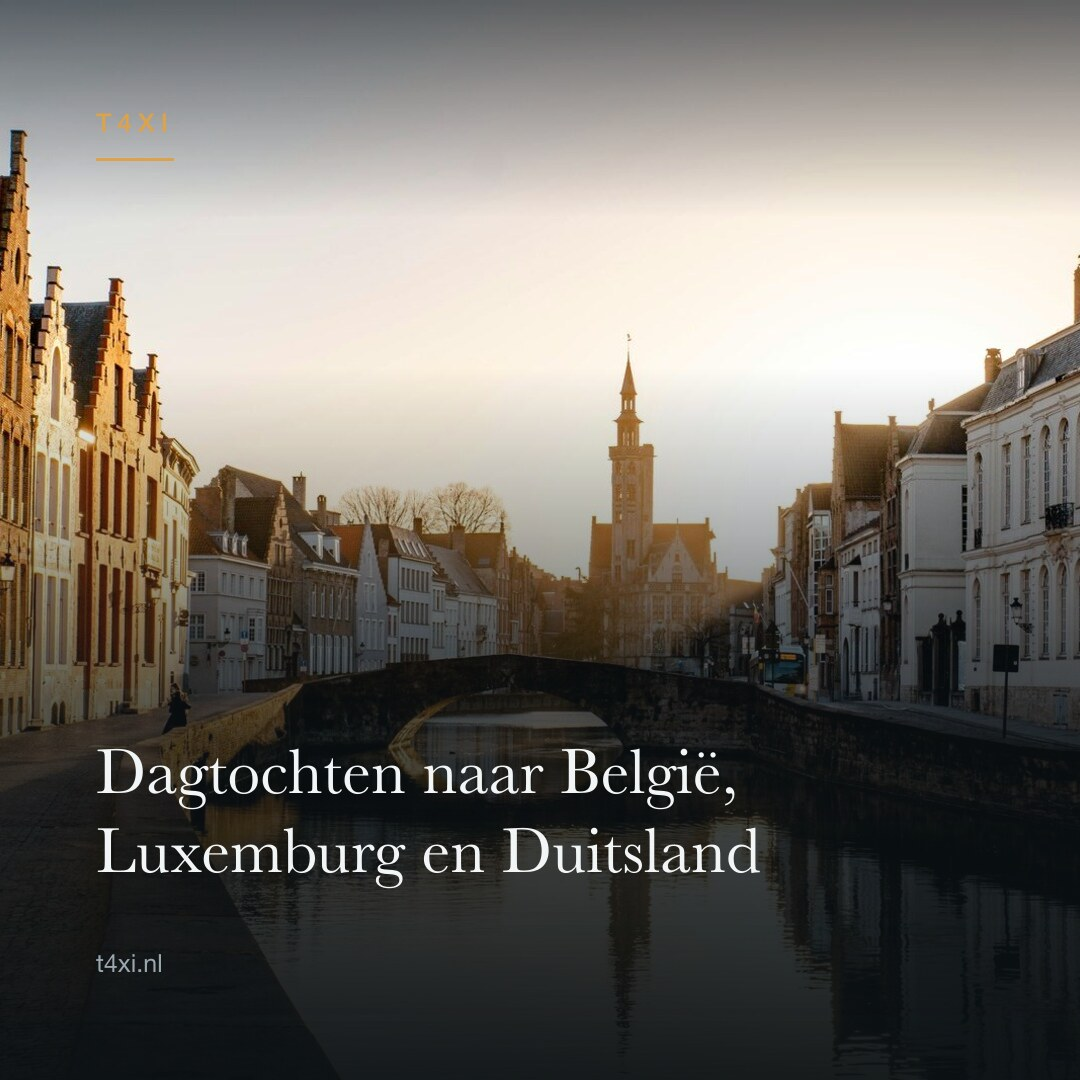
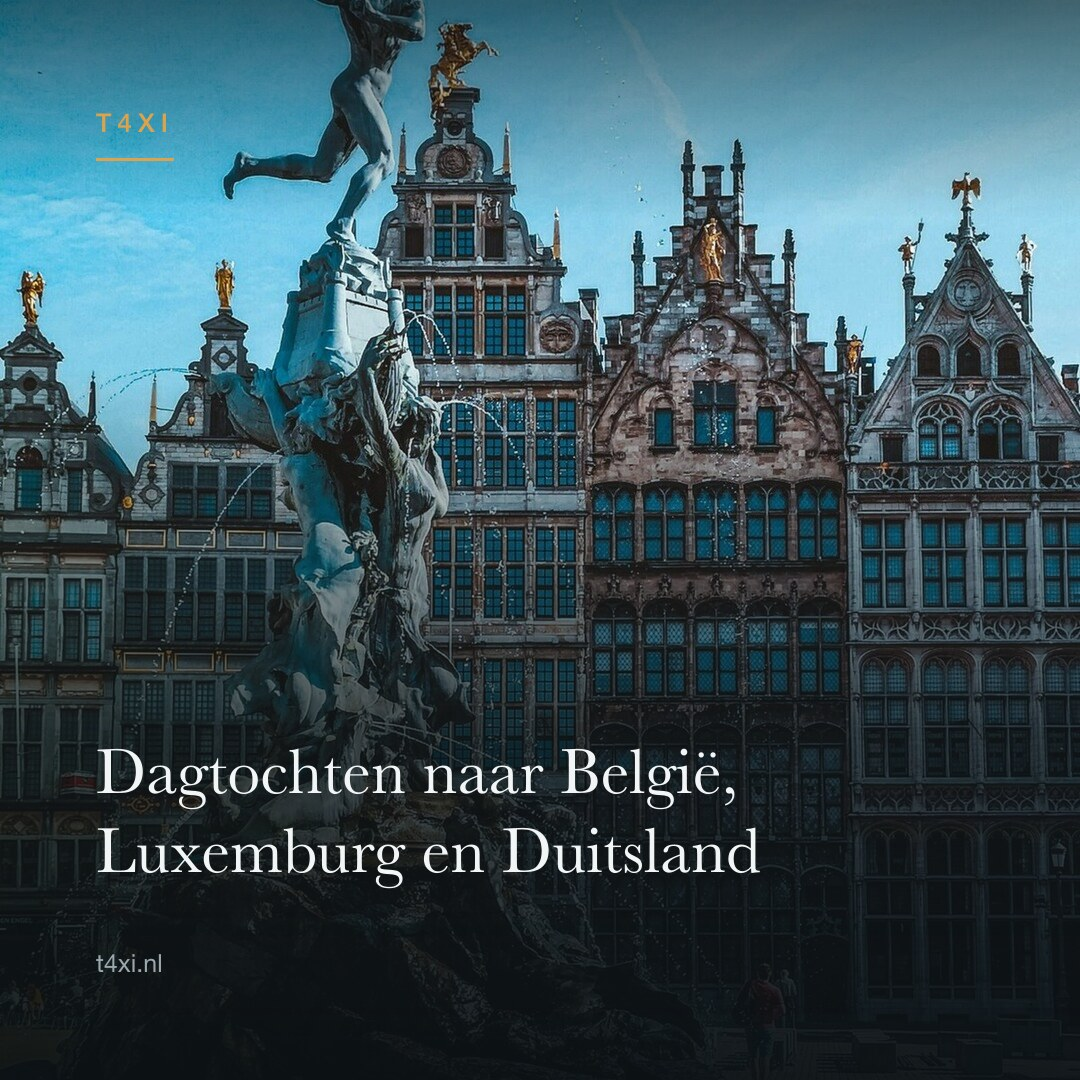
feat(social): beeldgeneratie als herhaalbare pijplijn (#31)
De socialbeelden werden gebouwd door een script buiten de repo met negen
hardgecodeerde bronpaden. Daardoor kon er geen foto bij zonder codewijziging.

- assets/social/  bronfoto's; bestandsnaam bepaalt de pijler(s),
                  bijvoorbeeld schiphol+bagage--terminal.jpg
- scripts/social/build-images.py  scant die map en bouwt public/social/
- scripts/social/posts.csv        de 59 posts (datum, kanaal, pijler, kop)
- scripts/social/manifest.csv     welk beeld bij welke post hoort

Een foto bijplaatsen is nu: bestand in assets/social/ zetten en het script
opnieuw draaien. MAX_HERHALING begrenst hoe vaak dezelfde foto terugkomt;
is elke kandidaat op, dan wint een tekstkaart.

diff --git a/scripts/social/build-images.py b/scripts/social/build-images.py
@@ -1,0 +1,221 @@
+#!/usr/bin/env python3
+# -*- coding: utf-8 -*-
+"""
+Bouwt de socialbeelden in public/social/ — één merksysteem over alle posts.
+
+    python3 scripts/social/build-images.py
+
+BRONFOTO'S — assets/social/
+    Bestandsnaam bepaalt waar een foto terechtkomt:
+
+        <pijler>--<omschrijving>.jpg
+
+    De pijler vóór het dubbele streepje moet overeenkomen met de kolom
+    `pijler` in posts.csv, kleine letters en zonder spaties:
+
+        schiphol--avond.jpg              -> posts met pijler "Schiphol"
+        vasteprijs--dashboard.jpg        -> pijler "Vaste prijs"
+        schiphol+bagage--terminal.jpg    -> beide pijlers
+        algemeen--nachtstraat.jpg        -> vulfoto, bruikbaar bij elke pijler
+
+    Foto's bijplaatsen = bestand in assets/social/ zetten en dit script
+    opnieuw draaien. Meer foto's per pijler betekent minder tekstkaarten.
+    Vierkant werkt het beste; de rest wordt centraal bijgesneden.
+
+UITVOER — public/social/, één bestand per post. Posts zonder passende foto
+krijgen een tekstkaart in dezelfde huisstijl.
+"""
+import csv
+import html
+import os
+import subprocess
+import sys
+import textwrap
+
+ROOT = os.path.dirname(os.path.dirname(os.path.dirname(os.path.abspath(__file__))))
+BRON = os.path.join(ROOT, "assets", "social")
+UIT = os.path.join(ROOT, "public", "social")
+DATA = os.path.join(ROOT, "scripts", "social", "posts.csv")
+TMP = os.path.join(ROOT, ".next", "cache", "social-build")
+
+GROND, INKT, AMBER, ZACHT = "#0F1519", "#F2F5F6", "#DCA24C", "#9AA8B0"
+MARGE, BASIS, MAAT = 96, 872, 1080
+
+# Curatie: deze posts krijgen bewust een specifieke foto, ongeacht de pijler.
+# Sleutel is de kolom `idx` in posts.csv.
+CURATIE = {
+    2:  "vasteprijs+fairfare--dashboard",                       # leeg scherm bij "geen taxameter"
+    8:  "schiphol+luchthavens+bagage+chauffeur--transfer-terminal",  # chauffeur ontvangt iemand
+    14: "schiphol+luchthavens+bagage+chauffeur--transfer-terminal",  # koffer bij bagagepost
+}
+
+# Hoe vaak dezelfde foto in de hele reeks mag terugkeren. Is elke kandidaat
+# op, dan wint een tekstkaart: liever variatie dan een feed vol dezelfde auto.
+# Plaats je foto's bij in assets/social/, dan verschuift dit vanzelf.
+MAX_HERHALING = 3
+
+
+def sleutel(pijler):
+    return pijler.lower().replace(" ", "").replace("&", "")
+
+
+def pools():
+    """Bronfoto's groeperen op de pijler vóór het dubbele streepje."""
+    if not os.path.isdir(BRON):
+        sys.exit(f"Bronmap ontbreekt: {BRON}")
+    p = {}
+    for f in sorted(os.listdir(BRON)):
+        if not f.lower().endswith((".jpg", ".jpeg", ".png")):
+            continue
+        stam = os.path.splitext(f)[0]
+        kop = stam.split("--")[0] if "--" in stam else "algemeen"
+        # Een foto mag meerdere pijlers bedienen: schiphol+bagage--terminal.jpg
+        for groep in kop.split("+"):
+            p.setdefault(groep, []).append(stam)
+    return p
+
+
+def breek(kop):
+    """Gebalanceerd afbreken: zo min mogelijk regels, dan zo gelijk mogelijk lang."""
+    beste = None
+    for w in range(14, 34):
+        r = textwrap.wrap(kop, width=w)
+        if not r:
+            continue
+        score = (len(r), max(map(len, r)) - min(map(len, r)))
+        if beste is None or score < beste[0]:
+            beste = (score, r)
+    return beste[1] if beste else [kop]
+
+
+def overlay(kop, op_foto):
+    regels = breek(kop)
+    px = {1: 74, 2: 66, 3: 56}.get(len(regels), 46)
+    lh = int(px * 1.20)
+    top = BASIS - (len(regels) - 1) * lh
+    tekst = "".join(
+        f'<text x="{MARGE}" y="{top + i * lh}" font-family="Baskerville, Georgia, serif" '
+        f'font-size="{px}" fill="{INKT}">{html.escape(r)}</text>'
+        for i, r in enumerate(regels))
+    scrim = ('<rect width="1080" height="1080" fill="url(#boven)"/>'
+             '<rect width="1080" height="1080" fill="url(#onder)"/>') if op_foto else ""
+    return f'''<svg xmlns="http://www.w3.org/2000/svg" width="{MAAT}" height="{MAAT}" viewBox="0 0 1080 1080">
+<defs>
+ <linearGradient id="onder" x1="0" y1="0" x2="0" y2="1">
+  <stop offset="0.34" stop-color="#0B1114" stop-opacity="0"/>
+  <stop offset="0.68" stop-color="#0B1114" stop-opacity="0.74"/>
+  <stop offset="1" stop-color="#0B1114" stop-opacity="0.95"/>
+ </linearGradient>
+ <linearGradient id="boven" x1="0" y1="0" x2="0" y2="1">
+  <stop offset="0" stop-color="#0B1114" stop-opacity="0.58"/>
+  <stop offset="0.20" stop-color="#0B1114" stop-opacity="0"/>
+ </linearGradient>
+</defs>
+{scrim}
+<text x="{MARGE}" y="132" font-family="Helvetica Neue, Helvetica, sans-serif" font-size="26"
+      font-weight="600" letter-spacing="6" fill="{AMBER}">T4XI</text>
+<rect x="{MARGE}" y="158" width="78" height="3" fill="{AMBER}"/>
+{tekst}
+<text x="{MARGE}" y="972" font-family="Helvetica Neue, Helvetica, sans-serif" font-size="25" fill="{ZACHT}">t4xi.nl</text>
+</svg>'''
+
+
+def toewijzen(posts, pool):
+    """Per post een achtergrond kiezen, of None voor een tekstkaart.
+
+    Volgorde: curatie, dan een foto uit de eigen pijler, dan een vulfoto om
+    te voorkomen dat er meer dan twee kaarten op rij in de feed staan.
+    Nooit dezelfde achtergrond binnen een gridrij (venster van 3).
+    """
+    keuze, gebruik, reeks = {}, {}, 0
+    recent = []
+
+    def vrij(kandidaten):
+        """Minst gebruikte foto die niet in de vorige twee posts zat."""
+        opties = [k for k in kandidaten
+                  if gebruik.get(k, 0) < MAX_HERHALING and k not in recent[-2:]]
+        if not opties:
+            return None
+        return min(opties, key=lambda k: gebruik.get(k, 0))
+
+    for p in posts:
+        i = int(p["idx"])
+        groep = sleutel(p["pijler"])
+        gekozen = None
+        if i in CURATIE and CURATIE[i] in sum(pool.values(), []):
+            gekozen = CURATIE[i]
+        elif groep in pool:
+            gekozen = vrij(pool[groep])
+        if p["kanaal"] == "instagram":
+            if gekozen is None:
+                reeks += 1
+                if reeks >= 3 and pool.get("algemeen"):
+                    gekozen = vrij(pool["algemeen"])
+                    reeks = 0
+            else:
+                reeks = 0
+        if gekozen:
+            recent.append(gekozen)
+            gebruik[gekozen] = gebruik.get(gekozen, 0) + 1
+        keuze[i] = gekozen
+    return keuze
+
+
+def run(*a):
+    subprocess.run(a, check=True, capture_output=True)
+
+
+def main():
+    posts = list(csv.DictReader(open(DATA, encoding="utf-8")))
+    pool = pools()
+    keuze = toewijzen(posts, pool)
+
+    os.makedirs(TMP, exist_ok=True)
+    os.makedirs(UIT, exist_ok=True)
+
+    # achtergronden eenmalig naar vierkant
+    achtergrond = {}
+    for stam in {v for v in keuze.values() if v}:
+        for ext in (".jpg", ".jpeg", ".png"):
+            src = os.path.join(BRON, stam + ext)
+            if os.path.exists(src):
+                break
+        doel = os.path.join(TMP, stam + ".jpg")
+        run("magick", src, "-resize", f"{MAAT}x{MAAT}^", "-gravity", "center",
+            "-extent", f"{MAAT}x{MAAT}", "-quality", "92", doel)
+        achtergrond[stam] = doel
+
+    vlak = os.path.join(TMP, "_vlak.png")
+    run("magick", "-size", f"{MAAT}x{MAAT}", f"xc:{GROND}", vlak)
+
+    for f in os.listdir(UIT):
+        os.remove(os.path.join(UIT, f))
+
+    manifest = []
+    for p in posts:
+        i = int(p["idx"])
+        stam = keuze[i]
+        naam = f"{p['datum']}-{i:02d}-{'foto' if stam else 'kaart'}.jpg"
+        svg, png = os.path.join(TMP, "_o.svg"), os.path.join(TMP, "_o.png")
+        open(svg, "w", encoding="utf-8").write(overlay(p["kop"], bool(stam)))
+        run("rsvg-convert", "-w", str(MAAT), "-h", str(MAAT), svg, "-o", png)
+        run("magick", achtergrond[stam] if stam else vlak, png, "-composite",
+            "-quality", "88", os.path.join(UIT, naam))
+        manifest.append([i, p["datum"], p["kanaal"], naam, stam or "kaart", p["kop"]])
+
+    with open(os.path.join(os.path.dirname(DATA), "manifest.csv"), "w",
+              newline="", encoding="utf-8") as f:
+        w = csv.writer(f)
+        w.writerow(["idx", "datum", "kanaal", "bestand", "achtergrond", "kop"])
+        w.writerows(manifest)
+
+    fotos = sum(1 for r in manifest if r[4] != "kaart")
+    mb = sum(os.path.getsize(os.path.join(UIT, f)) for f in os.listdir(UIT)) / 1024 / 1024
+    print(f"bronfoto's  : {sum(len(v) for v in pool.values())} in {len(pool)} pijlers "
+          f"({', '.join(sorted(pool))})")
+    print(f"beelden     : {len(manifest)}  ({fotos} op foto, {len(manifest)-fotos} kaart)")
+    print(f"public/social: {len(os.listdir(UIT))} bestanden, {mb:.1f} MB")
+
+
+if __name__ == "__main__":
+    main()
